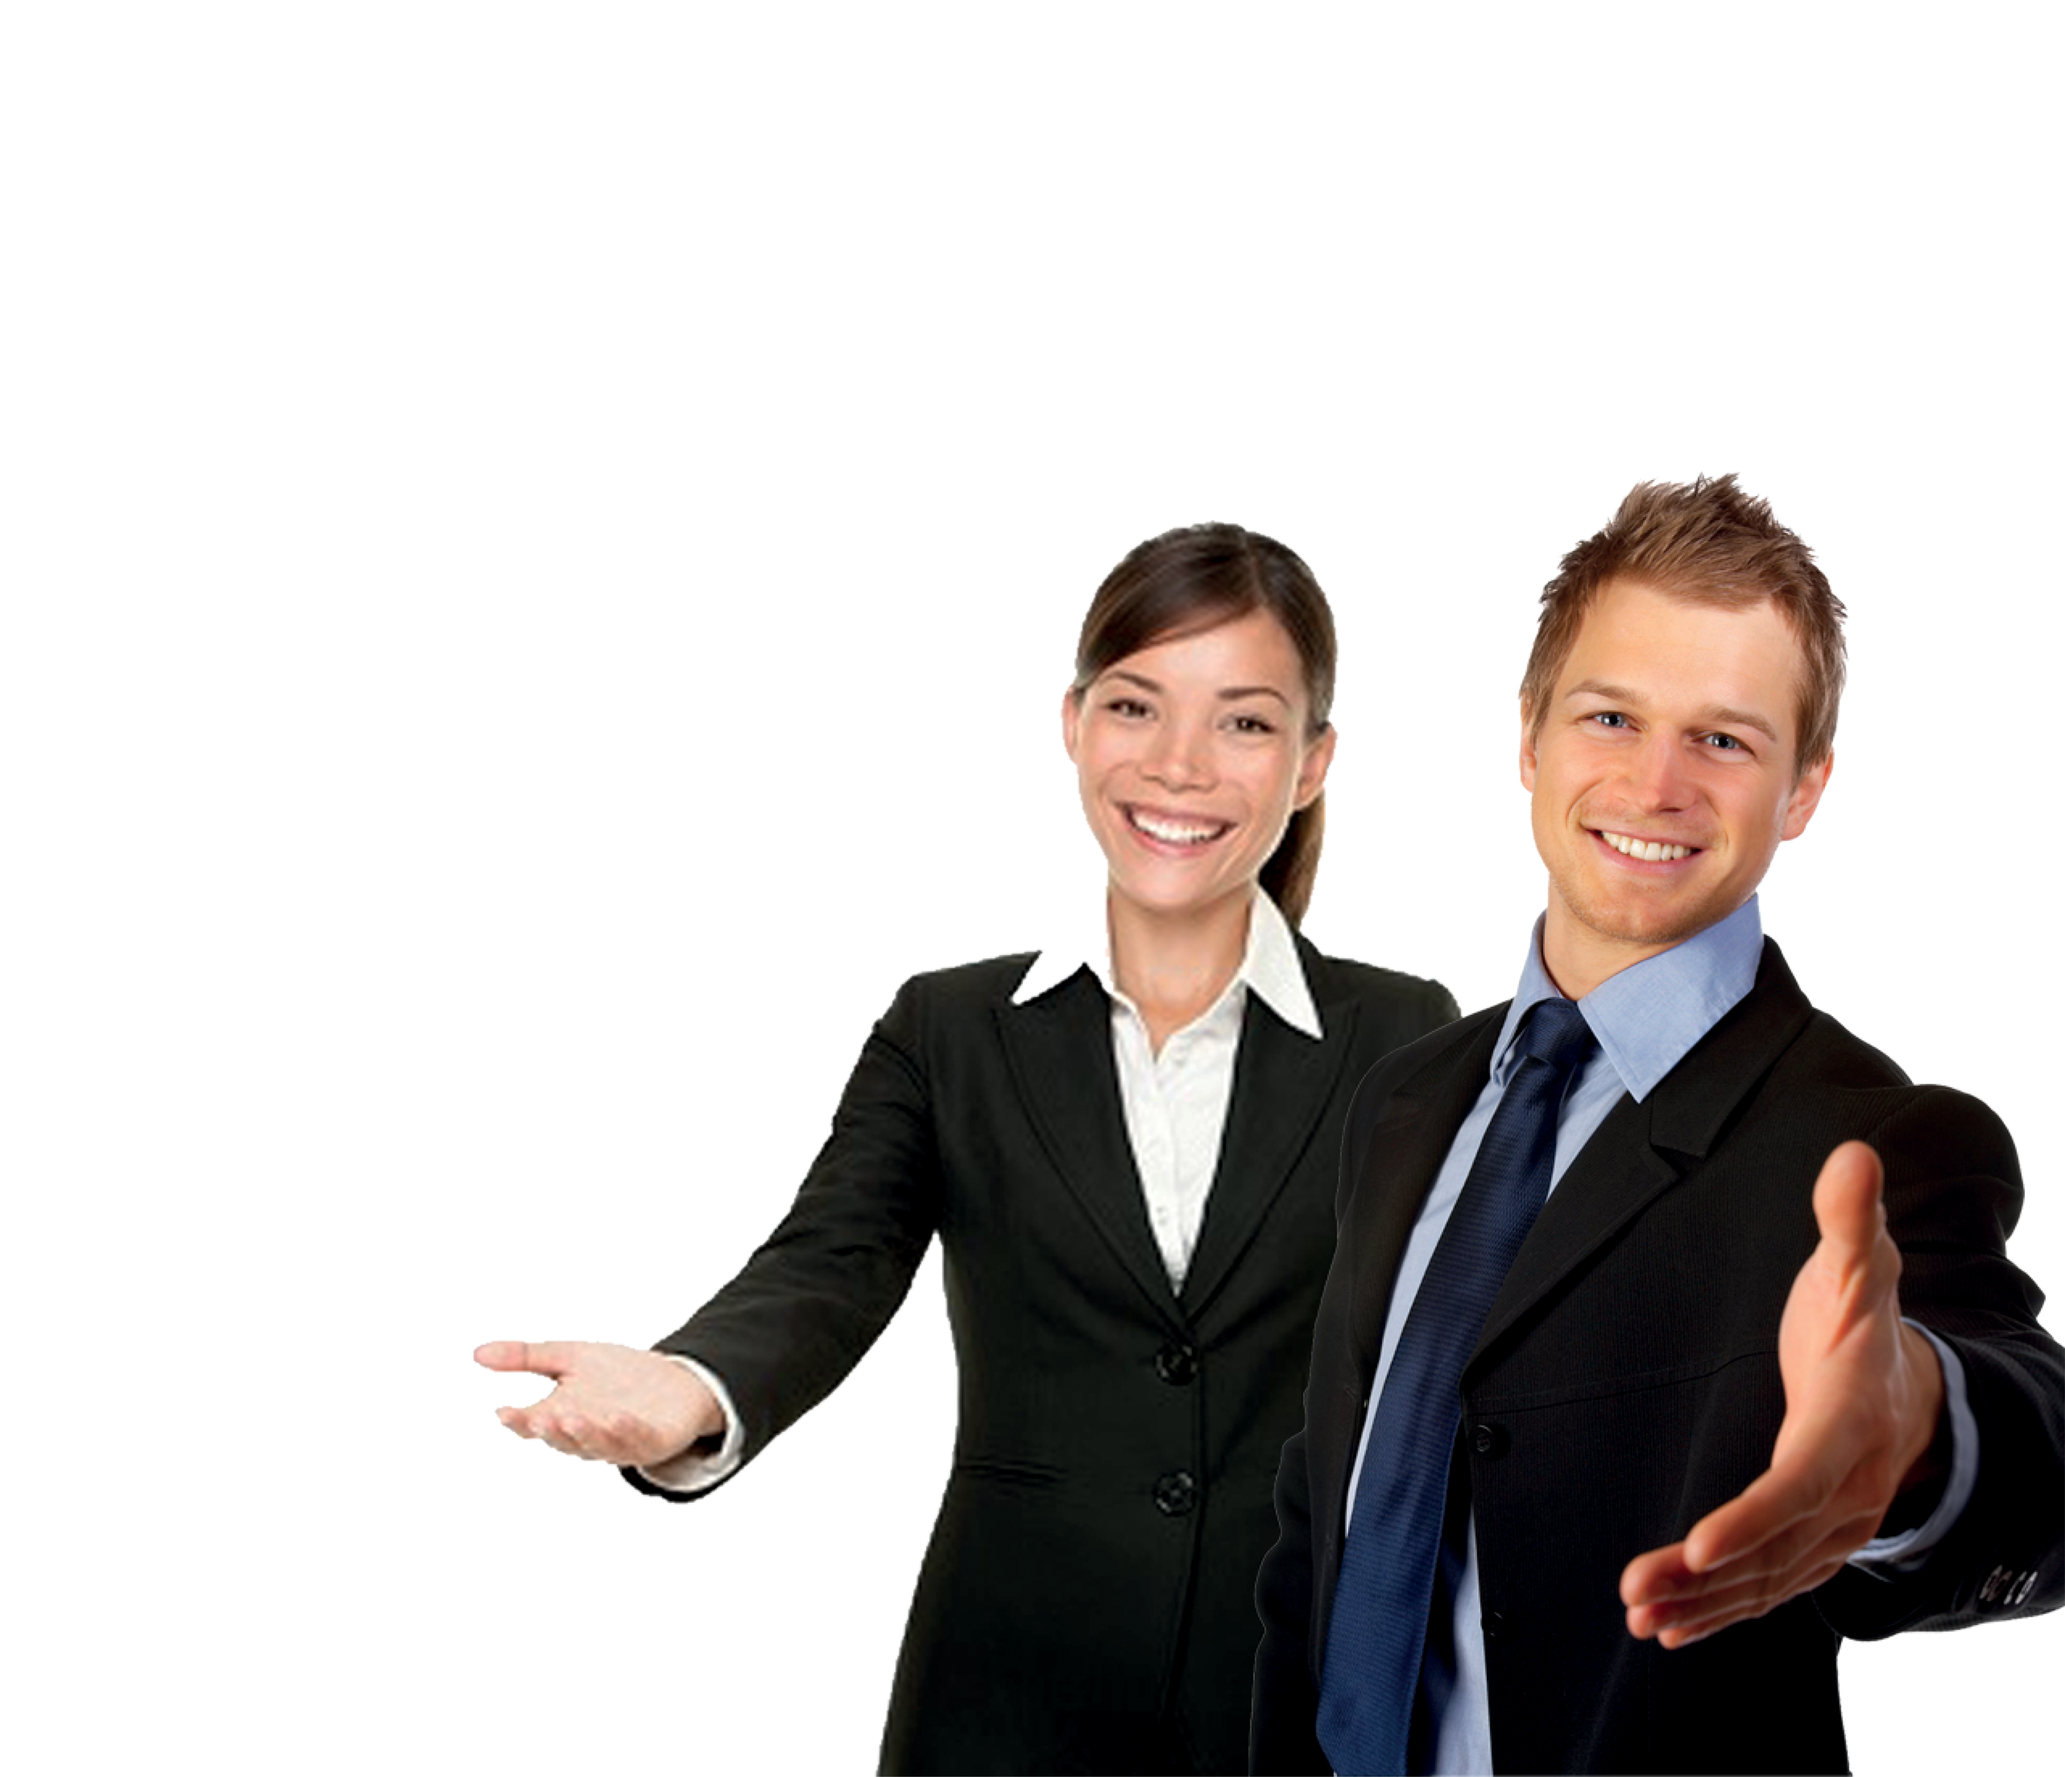
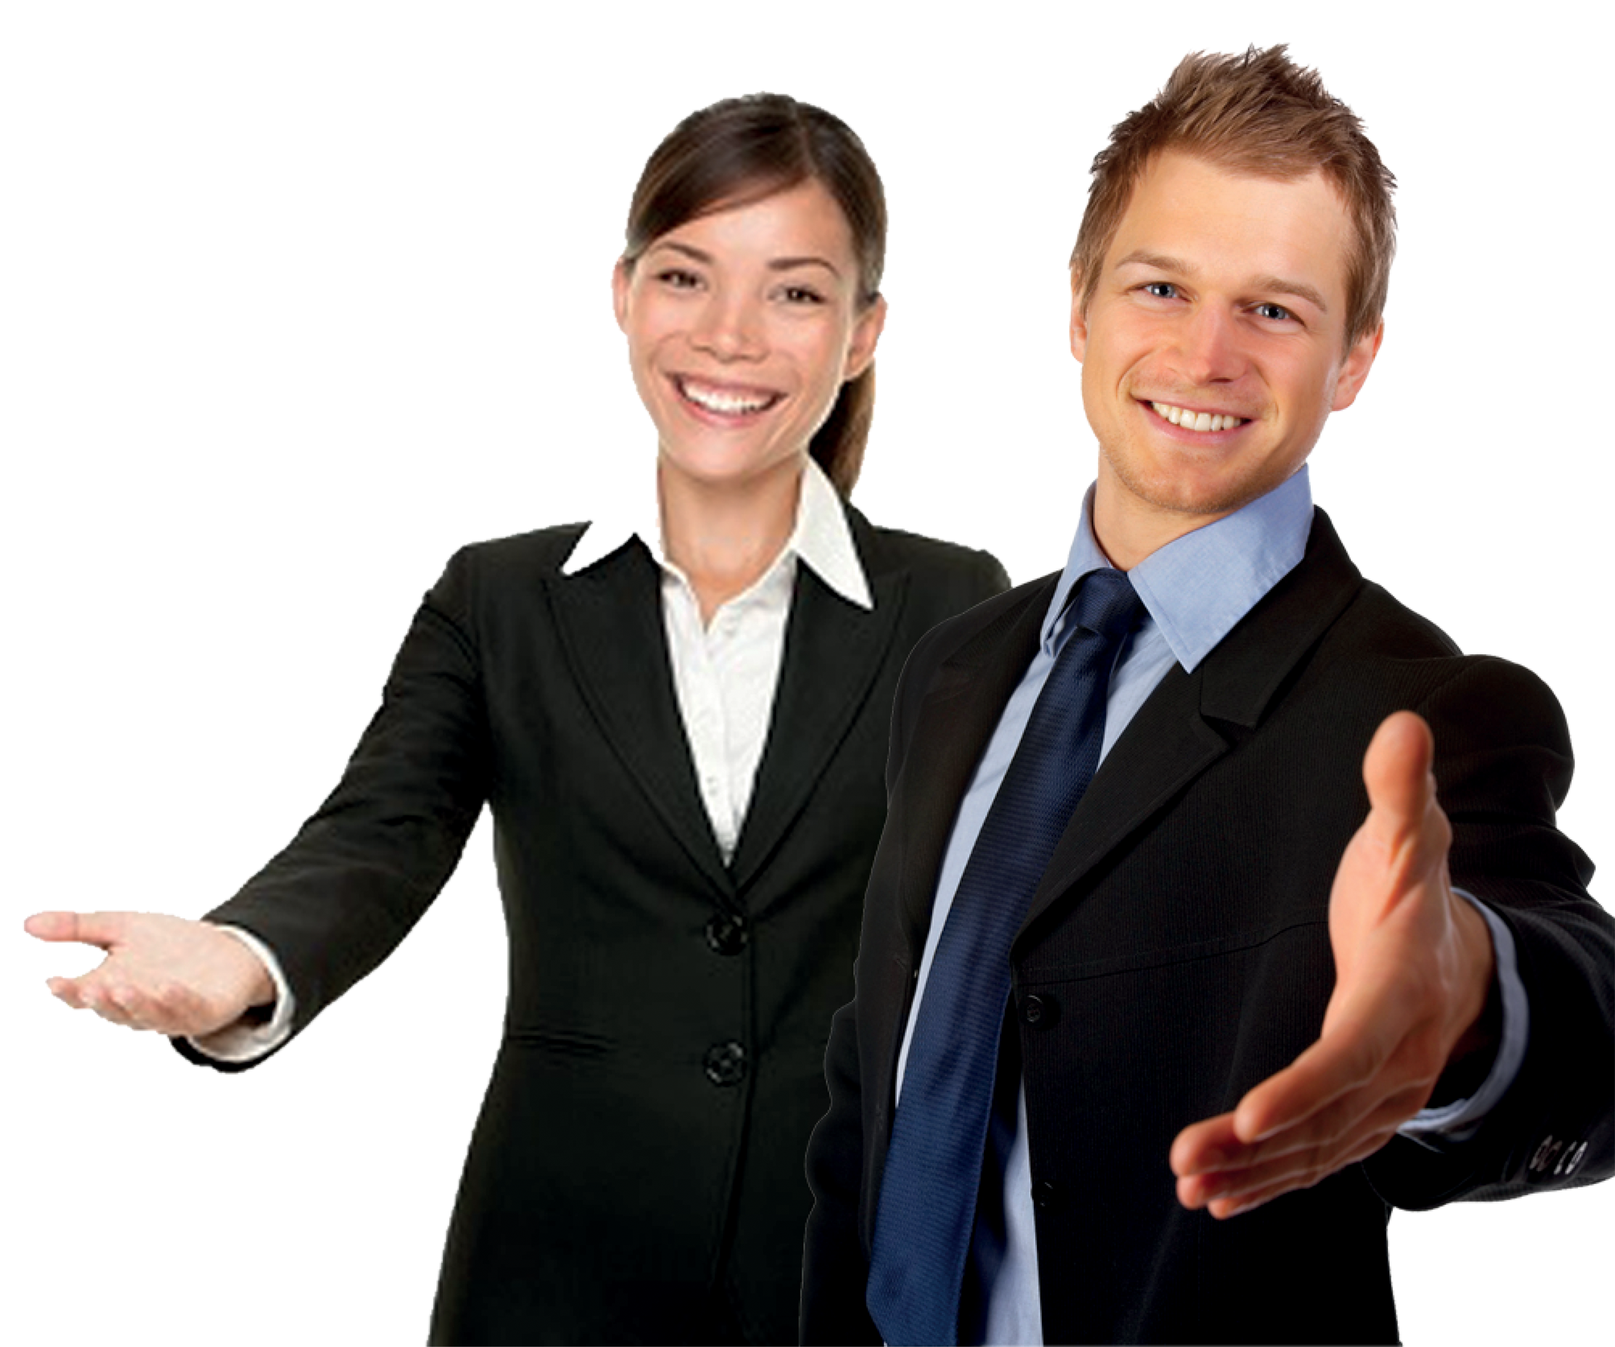
Latest update

diff --git a/public/css/style.css b/public/css/style.css
@@ -280,31 +280,12 @@ filter: progid:DXImageTransform.Microsoft.gradient( startColorstr='#ed1c24', end
 }
 
 .subscribe-button-huge {
-	position: relative;
-	width:auto;
-	max-width: 50%;
-	border-radius:10px;
-	/*
-	background: rgb(7, 97, 45);
-	background: -moz-linear-gradient(left, rgba(7, 97, 45, 1) 0%, rgba(68, 171, 58, 1) 100%);
-	background: -webkit-linear-gradient(left, rgba(7, 97, 45, 1) 0%, rgba(68, 171, 58, 1) 100%);
-	background: linear-gradient(to right, rgba(7, 97, 45, 1) 0%, rgba(68, 171, 58, 1) 100%);
-	filter: progid: DXImageTransform.Microsoft.gradient( startColorstr='#07612d', endColorstr='#44ab3a', GradientType=1 );
-	IE6-9 */
-	/* Permalink - use to edit and share this gradient: http://colorzilla.com/gradient-editor/#ed1c24+0,9b090d+100 */
-background: rgb(237,28,36); /* Old browsers */
-background: -moz-linear-gradient(left,  rgba(237,28,36,1) 0%, rgba(155,9,13,1) 100%); /* FF3.6-15 */
-background: -webkit-linear-gradient(left,  rgba(237,28,36,1) 0%,rgba(155,9,13,1) 100%); /* Chrome10-25,Safari5.1-6 */
-background: linear-gradient(to right,  rgba(237,28,36,1) 0%,rgba(155,9,13,1) 100%); /* W3C, IE10+, FF16+, Chrome26+, Opera12+, Safari7+ */
-filter: progid:DXImageTransform.Microsoft.gradient( startColorstr='#ed1c24', endColorstr='#9b090d',GradientType=1 ); /* IE6-9 */
 	color: #fff;
+    background-color: #FF7800;
+    border-color: #e06902;
 	font-weight: 900;
-	text-align: center;
 	font-size: 20px;
-	padding: 15px 20px;
 	text-transform: uppercase;
-	margin: 20px 0px;
-	cursor: pointer;
 }
 
 .peluang-subscribe-button-huge {
@@ -444,9 +425,9 @@ filter: progid:DXImageTransform.Microsoft.gradient( startColorstr='#07612d', end
 	background-image: url('images/people.png');
 	background-size: contain;
 	background-repeat: no-repeat;
-	height: 750px;
-	width:900px;
-	z-index: 13213;
+	height: 450px;
+	width:600px;
+	z-index: 99;
 }
 
 #peluang-inner {

diff --git a/app/views/pages/templates/home.blade.php b/app/views/pages/templates/home.blade.php
@@ -52,39 +52,32 @@
 
   <div class="container">
     <div class="row">
-      <h1 class="testimonial-title text-center text-capital">About Me</h1>
-      <hr style="width:200px;border: 2px solid #000;">
+      <div class="col-md-12">
+         <h1 class="testimonial-title text-center text-capital">Welcome</h1>
+         <p>Saya bersama komunitas GNT Club membuka kesempatan ini hanya dengan 1 alasan utama, yaitu kami ingin membantu Anda yang sungguh-sungguh ingin meraih impian.</p>
+
+          <p>Kami sudah bertemu dengan kendaraan yang TEPAT, dan kami sangat yakin bahwa Anda juga akan mencapai impian Anda jika memiliki kendaraan ini.</p>
+
+          <p>Saya sangat bersemangat dengan program GNT Club ini, karena Anda akan bisa menikmati dollar pertama Anda dalam bulan ini juga.</p>
+
+          <p>Setulusnya, saya bersama-sama dengan coach Komunitas GNT Club berharap Anda segera take action sekarang, sebagai hadiah terindah yang bisa Anda berikan untuk masa depan orang-orang yang Anda cintai</p>
+
+          <p>Salam Sukses, </p>
+          <div class="media">
+            <div class="media-left">
+               {{ HTML::image( 'img/userphoto.jpg', 'Sarasvati', array( 'class' => 'media-object img-circle' ) ) }} 
+            </div>
+            <div class="media-body">
+              <h4 class="media-heading"><strong>Sarasvati</strong></h4>
+              <p>
+            GNT Club Member
+            <br>
+            0812-8888-999</p>
+            </div>
+          </div>
+        </div>
     </div>
   </div>
-
-  <div class="container-fluid">
-    <div class="row">
-        {{ HTML::image( 'images/aboutme-banner.jpg', 'banner', array( 'class' => 'space-buffer' )) }}  
-    </div>
-  </div>
-
-  <div class="container">
-    <div class="row">
-      <p>Saya bersama komunitas GNT Club membuka kesempatan ini hanya dengan 1 alasan utama, yaitu kami ingin membantu Anda yang sungguh-sungguh ingin meraih impian.</p>
-
-<p>Kami sudah bertemu dengan kendaraan yang TEPAT, dan kami sangat yakin bahwa Anda juga akan mencapai impian Anda jika memiliki kendaraan ini.</p>
-
-<p>Saya sangat bersemangat dengan program GNT Club ini, karena Anda akan bisa menikmati dollar pertama Anda dalam bulan ini juga.</p>
-
-<p>Setulusnya, saya bersama-sama dengan coach Komunitas GNT Club berharap Anda segera take action sekarang, sebagai hadiah terindah yang bisa Anda berikan untuk masa depan orang-orang yang Anda cintai</p>
-
-<p>Salam Sukses, </p>
-
-<br><br>
-
-<p>Sarasvati
-  <br>
-Partner Franchise Online Store
-<br>
-0812-8888-999</p>
-    </div>
-  </div>
-
 
 <div id="homepage-gray-background" class="container-fluid">
   <div class="container">
@@ -131,37 +124,37 @@ Partner Franchise Online Store
                 <h1 class="testimonial-title text-white text-center text-capital">Apa kata mereka?</h1>
               </div>
               <div class="col-sm-6">
-                  <div class="col-sm-4 testimonial-photo">
+                  <div class="col-sm-4 col-xs-4 testimonial-photo">
                     {{ HTML::image( 'images/testimonial-photo.png', 'logo-small', array( 'class' => 'testimonial-image' ) ) }}  
                   </div>
-                  <div class="col-sm-8 testimonial-text">
+                  <div class="col-sm-8 col-xs-8 testimonial-text">
                     <p class="text-white">“Semenjak minum GNT Fiber serat, BAB jadi lancar. Berasa kenyang lebih lama dan merasa lebih enteng dibagian perutku. Berat badan 72 turun ke 69 hanya dalam 1 bulan.”</p>
                     <p class="text-yellow">Victor Tjahja, 35, wiraswasta, Jakarta</p>
                   </div>
               </div>
               <div class="col-sm-6 testimonial-right">
-                  <div class="col-sm-4 testimonial-photo">
+                  <div class="col-sm-4 col-xs-4 testimonial-photo">
                     {{ HTML::image( 'images/testimonial-photo.png', 'logo-small', array( 'class' => 'testimonial-image' ) ) }}  
                   </div>
-                  <div class="col-sm-8 testimonial-text">
+                  <div class="col-sm-8 col-xs-8 testimonial-text">
                     <p class="text-white">“Lantaran penasaran cerita teman jadi ikutan nyoba. BBku turun 3kg hanya dalam sebulan. Enggak bikin lemes, badan terasa ringan dan semakin sehat.”</p>
                     <p class="text-yellow">Willy R Khosuma, 25, Tobelo</p>
                   </div>
               </div>  
               <div class="col-sm-6">
-                  <div class="col-sm-4 testimonial-photo">
+                  <div class="col-sm-4 col-xs-4 testimonial-photo">
                     {{ HTML::image( 'images/testimonial-photo.png', 'logo-small', array( 'class' => 'testimonial-image' ) ) }}  
                   </div>
-                  <div class="col-sm-8 testimonial-text">
+                  <div class="col-sm-8 col-xs-8 testimonial-text">
                     <p class="text-white">“Terima Kasih GNT FIBER saya senang sekali bisa menurunkan berat badan saya dengan cara yang mudah dan tidak menyiksa tubuh saya”</p>
                     <p class="text-yellow">Sonny Tulung, 45 tahun - Artis</p>
                   </div>
               </div>  
               <div class="col-sm-6 testimonial-right">
-                  <div class="col-sm-4 testimonial-photo">
+                  <div class="col-sm-4 col-xs-4 testimonial-photo">
                     {{ HTML::image( 'images/testimonial-photo.png', 'logo-small', array( 'class' => 'testimonial-image' ) ) }}  
                   </div>
-                  <div class="col-sm-8 testimonial-text">
+                  <div class="col-sm-8 col-xs-8 testimonial-text">
                     <p class="text-white">“GNT Fiber ini sangat membantu. Baru minum teratur 2x sehari selama seminggu, celana langsung longgar”</p>
                     <p class="text-yellow">Sandi Wonodjojo, 30, wiraswasta, Jakarta</p>
                   </div>
@@ -188,22 +181,22 @@ Partner Franchise Online Store
               <li>Peduli pada KESEHATAN</li>
             </ul>
           <div class="row">
-            <div class="col-sm-2">
+            <div class="col-sm-2 col-xs-2">
               {{ HTML::image( 'images/logo1.png', 'logo-small', array( 'class' => 'profile-image' ) ) }}  
             </div>
-            <div class="col-sm-2">
+            <div class="col-sm-2 col-xs-2">
               {{ HTML::image( 'images/logo2.png', 'logo-small', array( 'class' => 'profile-image' ) ) }}  
             </div>
-            <div class="col-sm-2">
+            <div class="col-sm-2 col-xs-2">
               {{ HTML::image( 'images/logo3.png', 'logo-small', array( 'class' => 'profile-image' ) ) }}  
             </div>
-            <div class="col-sm-2">
+            <div class="col-sm-2 col-xs-2">
               {{ HTML::image( 'images/logo4.png', 'logo-small', array( 'class' => 'profile-image' ) ) }}  
             </div>
-            <div class="col-sm-2">
+            <div class="col-sm-2 col-xs-2">
               {{ HTML::image( 'images/logo5.png', 'logo-small', array( 'class' => 'profile-image' ) ) }}  
             </div>
-            <div class="col-sm-2">
+            <div class="col-sm-2 col-xs-2">
               {{ HTML::image( 'images/logo6.png', 'logo-small', array( 'class' => 'profile-image' ) ) }}  
             </div>
           </div>
@@ -218,15 +211,13 @@ Partner Franchise Online Store
     <div class="row">
       <div class="col-sm-6">
         <div class="row">
-              <h1 class="testimonial-title text-white">Tunggu apalagi?<br>
-                Ayo tingkatkan kualitas<br>
-                hidup anda sekarang!
-              </h1>
+          <h1 class="testimonial-title text-white">Tunggu apalagi?<br>
+            Ayo tingkatkan kualitas<br>
+            hidup anda sekarang!
+          </h1>
         </div>
         <div class="row">
-          <div class="subscribe-button-huge text-center">
-            Saya tertarik!
-          </div> 
+          <a href="" class="btn subscribe-button-huge btn-lg">Saya tertarik!</a>
         </div>
       </div>
       <div class="col-sm-6 hidden-xs" id="bottom-people-image-container">

diff --git a/app/views/members/dashboard.blade.php b/app/views/members/dashboard.blade.php
@@ -3,7 +3,47 @@
 @section('content')
 <div class="row">
 	<div class="col-md-12">
-		Alamat Website Replika: <a href="{{Sysparam::getValue('web_replika')}}/{{Auth::user()->first_name}}" title="Website Replika" target="_blank">{{url('/ref/'.Auth::user()->first_name)}}</a>
+
+		<div class="panel panel-default">
+			<div class="panel-heading">
+				<h3 class="panel-title">Sistem Prospek GNT</h3>
+			</div>
+			<div class="panel-body">
+				<p>Hallo, Rengga</p>
+
+				<p>GNTClub.com adalah sebuah media online untuk menjual produk, merekrut distributor baru, dan membimbing para distributor GNT Club sehingga menjadi pembangun jaringan secara online.</p>
+
+				<p>Anda sudah terdaftar sebagai member GNT Club, silakan beritahu peluang bisnis ini kepada teman, keluarga, dan kerabat anda. Caranya adalah dengan mempromosikan web replika di bawah ini:</p>		
+				
+				<div class="row">
+					<div class="col-md-6">
+						<div class="thumbnail">
+							{{ HTML::image( 'img/web_replika.png', 'Website Replika' ) }}
+							<div class="caption">
+								<h3><a href="{{Sysparam::getValue('web_replika')}}{{Auth::user()->last_name}}" title="Website Replika" target="_blank">{{url('@'.Auth::user()->last_name)}}</a></h3>
+								<p>
+									<a href="#" class="btn btn-primary" role="button">Lihat &raquo;</a>
+								</p>
+							</div>
+						</div>
+					</div>
+				</div>
+
+				<p>Pada website replika Anda, pengujung diharapkan untuk mengisi alamat informasi data diri yang kemudian akan disimpan ke dalam sistem. Untuk setiap data prospek yang di dapatkan, sistem akan mengirimkan email secara berkala mengenai berbagai informasi untuk mengajak prospek bergabung di jaringan Anda.</p>
+
+				<p>Prospek dapat langsung bergabung melalui tombol 'Saya Ingin Bergabung!' yang ada di setiap email yang dikirimkan.</p>
+
+				<div class="row">
+					<div class="col-md-6">
+						<div class="thumbnail">
+							{{ HTML::image( 'img/email_action.png', 'Email Campaign' ) }}
+						</div>
+					</div>
+				</div>
+				
+			</div>
+		</div>
+
 	</div>
 </div>
 <div class="row">

diff --git a/app/views/layouts/newmember.blade.php b/app/views/layouts/newmember.blade.php
@@ -110,8 +110,8 @@
         <li>
           <a href="{{ route('member.dashboard') }}"><i class="fa fa-dashboard"></i> Dashboard</a>
         </li>
-       <li><a href="{{ route('member.contacts.index') }}"><i class="fa fa-comment"></i> Contacts</a></li>
-       <li><a href="{{ route('member.send') }}"><i class="fa fa-send"></i> Send Mail</a></li>
+       <li><a href="{{ route('member.contacts.index') }}"><i class="fa fa-comment"></i> Daftar Kontak</a></li>
+       <li><a href="{{ route('member.send') }}"><i class="fa fa-send"></i> Kirim Email</a></li>
        <li><a href="{{ route('member.outbox') }}"><i class="fa fa-envelope"></i> Outbox</a></li>
         <!-- <li>
           <a href="javascript:;">

diff --git a/app/views/includes/html-head.blade.php b/app/views/includes/html-head.blade.php
@@ -10,7 +10,7 @@
     <meta name="author" content="{{ Sysparam::getValue('web_meta_author') }}">
     @section('head-meta')@show
     <link rel="icon" href="{{url('favicon.ico')}}">
-    <title>@yield('head-title', 'Home') | {{ Sysparam::getValue('web_title') }}</title>
+    <title>@yield('head-title', 'Peluang Terbaik Untuk Meningkatkan Kesejahteraan Hidup Anda') | {{ Sysparam::getValue('web_title') }}</title>
     {{ HTML::style('https://fonts.googleapis.com/css?family=Lato') }}
     {{ HTML::style('http://fonts.googleapis.com/css?family=Open+Sans:400,300,600,700&subset=all') }}
     {{ HTML::style('https://ajax.googleapis.com/ajax/libs/jqueryui/1.11.4/themes/smoothness/jquery-ui.css') }}

diff --git a/app/models/MemberAPI.php b/app/models/MemberAPI.php
@@ -97,8 +97,8 @@ class MemberAPI extends \Eloquent
 	public static function getmemberapiselect($member_id){
 		try{
 			// return null;
-			$apicaller = new ApiCaller(MemberAPI::API_KEY, MemberAPI::API_SECRET,'http://arctabyte.com/dev/aops-server/');
-			// $apicaller = new ApiCaller(MemberAPI::API_KEY, MemberAPI::API_SECRET,MemberAPI::API_TARGET);
+			// $apicaller = new ApiCaller(MemberAPI::API_KEY, MemberAPI::API_SECRET,'http://arctabyte.com/dev/aops-server/');
+			$apicaller = new ApiCaller(MemberAPI::API_KEY, MemberAPI::API_SECRET,MemberAPI::API_TARGET);
 
 			$todo_items = $apicaller->sendRequest(array(
 				'controller' => 'member',
